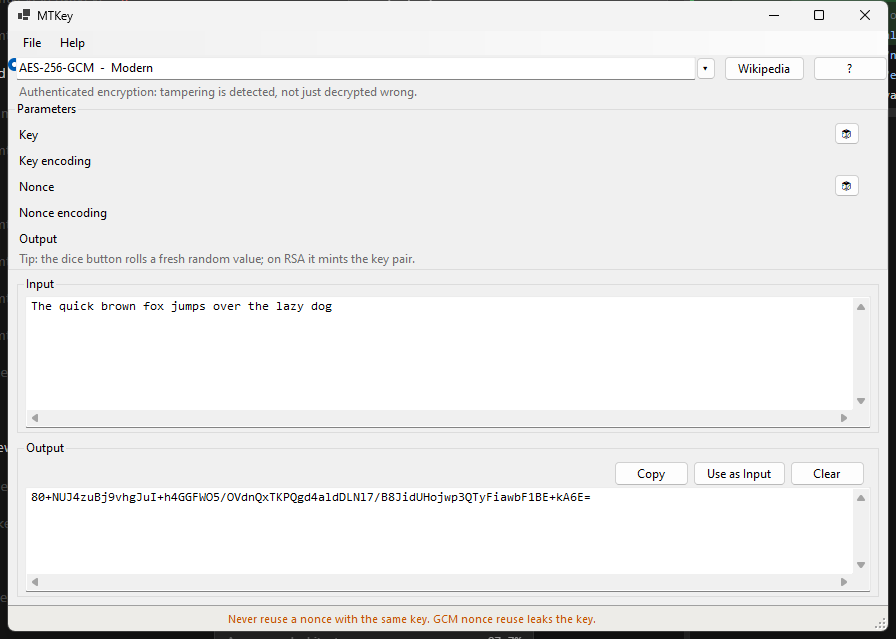
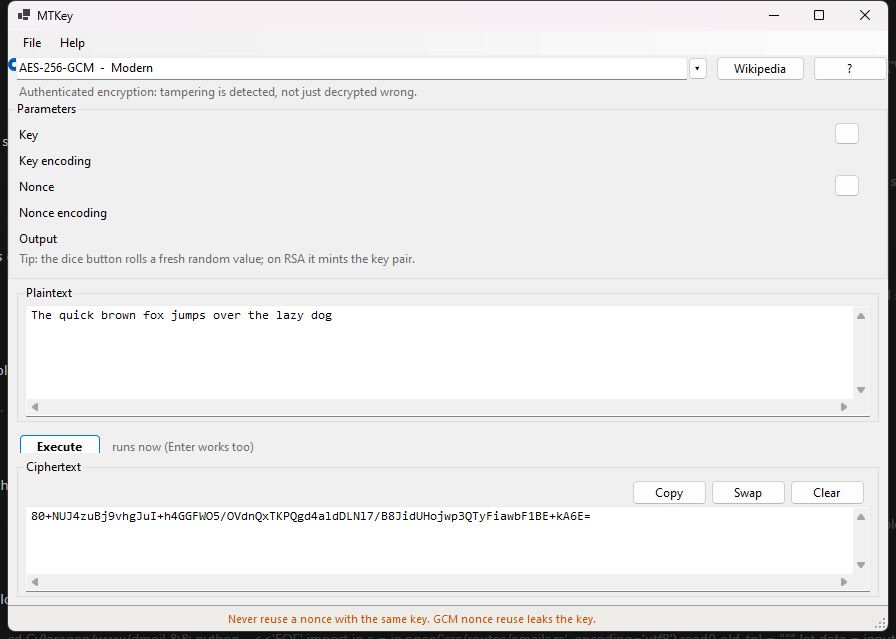
fix(ui): full-width parameter inputs, execute button, plaintext/ciphertext sections
Root cause of the vanishing inputs: the parameters group box had
AutoSize on, which pinned a docked control to its children's preferred
width and starved every field down to the 60px floor. The group is now
sized explicitly (full width, height from the rows) and multiline PEM
boxes are real multiline controls with scrollbars.

The two text sections are named Plaintext and Ciphertext (Hash for
one-way methods) and Swap exchanges both contents and captions, so a
swap lines the boxes up for the reverse direction. A bold Execute
button sits between the areas as the manual trigger and doubles as the
form's default button. Action buttons carry wider padding and a 23px
minimum so labels never truncate.

The layout guard now fails any method whose field input renders under
100px wide, which is the exact regression that shipped in 1.0.5.

diff --git a/src/Mtkey/MainForm.cs b/src/Mtkey/MainForm.cs
@@ -29,14 +29,15 @@ internal sealed class MainForm : Form
     };
 
     private readonly GroupBox _paramsGroup = NewGroup("Parameters");
-    private readonly GroupBox _inputGroup = NewGroup("Input");
-    private readonly GroupBox _outputGroup = NewGroup("Output");
+    private readonly GroupBox _inputGroup = NewGroup("Plaintext");
+    private readonly GroupBox _outputGroup = NewGroup("Ciphertext");
 
     private readonly TextBox _input = NewMonoBox();
     private readonly TextBox _output = NewMonoBox(readOnly: true);
     private readonly Button _copyButton = NewButton("Copy");
-    private readonly Button _useButton = NewButton("Use as Input");
+    private readonly Button _useButton = NewButton("Swap");
     private readonly Button _clearButton = NewButton("Clear");
+    private readonly Button _executeButton = NewPrimaryButton("Execute");
 
     private MenuStrip _menu = null!;
     private Panel _toolBar = null!;
@@ -96,8 +97,10 @@ internal sealed class MainForm : Form
         _encodeRadio.CheckedChanged += (_, _) => DirectionChanged();
         _decodeRadio.CheckedChanged += (_, _) => DirectionChanged();
         _copyButton.Click += (_, _) => CopyOutput();
-        _useButton.Click += (_, _) => { _input.Text = _output.Text; Schedule(); };
+        _useButton.Click += (_, _) => SwapSides();
         _clearButton.Click += (_, _) => { _input.Clear(); _output.Clear(); Schedule(); };
+        _executeButton.Click += (_, _) => { ValidateLive(); ProcessNow(); };
+        AcceptButton = _executeButton;
 
         _debounce.Tick += (_, _) => { _debounce.Stop(); ValidateLive(); ProcessNow(); };
 
@@ -127,7 +130,7 @@ internal sealed class MainForm : Form
         help.DropDownItems.Add(new ToolStripSeparator());
         help.DropDownItems.Add(new ToolStripMenuItem("&About MTKey...", null,
             (_, _) => MessageBox.Show(this,
-                "MTKey 1.0.5\nA cipher workbench: encode, decode, hash, sign, and learn.\n" +
+                "MTKey 1.0.6\nA cipher workbench: encode, decode, hash, sign, and learn.\n" +
                 $"{Registry.All.Count} methods. MIT licensed.\nhttps://github.com/eru123/mtkey",
                 "About MTKey", MessageBoxButtons.OK, MessageBoxIcon.Information)));
         menu.Items.Add(file);
@@ -223,7 +226,10 @@ internal sealed class MainForm : Form
     private void BuildParamsGroup()
     {
         _paramsGroup.Dock = DockStyle.Top;
-        _paramsGroup.AutoSize = true;
+        // AutoSize on a docked group box collapses its width to the
+        // children's preferred size and starves the inputs; the height is
+        // set explicitly in RebuildParams instead.
+        _paramsGroup.AutoSize = false;
         _paramsGroup.Padding = new Padding(8, 4, 8, 4);
         _paramsGroup.Margin = new Padding(6, 2, 6, 2);
         Controls.Add(_paramsGroup);
@@ -235,11 +241,12 @@ internal sealed class MainForm : Form
         {
             Dock = DockStyle.Fill,
             ColumnCount = 1,
-            RowCount = 2,
+            RowCount = 3,
             Padding = new Padding(6, 2, 6, 4),
             Margin = Padding.Empty,
         };
         grid.RowStyles.Add(new RowStyle(SizeType.Percent, 50));
+        grid.RowStyles.Add(new RowStyle(SizeType.Absolute, 30));
         grid.RowStyles.Add(new RowStyle(SizeType.Percent, 50));
 
         _inputGroup.Dock = DockStyle.Fill;
@@ -250,6 +257,28 @@ internal sealed class MainForm : Form
         _input.WordWrap = false;
         _input.AcceptsTab = true;
         _inputGroup.Controls.Add(_input);
+
+        // the primary action sits between the two areas: one deliberate
+        // click (or Enter) runs the method right now, live typing still works
+        var execBar = new Panel { Dock = DockStyle.Fill, Padding = new Padding(2, 5, 2, 2) };
+        _executeButton.Location = new Point(2, 5);
+        var execHint = new Label
+        {
+            Text = "runs now (Enter works too)",
+            AutoSize = true,
+            ForeColor = SystemColors.GrayText,
+            Location = new Point(0, 0),
+        };
+        _tips.SetToolTip(_executeButton, "Run the operation immediately");
+        void PlaceExec()
+        {
+            _executeButton.Location = new Point(2, 5);
+            execHint.Location = new Point(_executeButton.Right + 8,
+                5 + (_executeButton.Height - execHint.PreferredHeight) / 2);
+        }
+        execBar.Resize += (_, _) => PlaceExec();
+        execBar.Controls.Add(_executeButton);
+        execBar.Controls.Add(execHint);
 
         // the action buttons live on their own line under the group caption,
         // right aligned with a small inset so nothing touches the border
@@ -278,7 +307,8 @@ internal sealed class MainForm : Form
         _output.BringToFront();
 
         grid.Controls.Add(_inputGroup, 0, 0);
-        grid.Controls.Add(_outputGroup, 0, 1);
+        grid.Controls.Add(execBar, 0, 1);
+        grid.Controls.Add(_outputGroup, 0, 2);
         _ioGrid = grid;
         Controls.Add(grid);
     }
@@ -326,7 +356,7 @@ internal sealed class MainForm : Form
             rows.Add(new Label
             {
                 Dock = DockStyle.Top,
-                Height = 16,
+                Height = 15,
                 Text = "Tip: the dice button rolls a fresh random value; on RSA it mints the key pair.",
                 ForeColor = SystemColors.GrayText,
             });
@@ -336,13 +366,16 @@ internal sealed class MainForm : Form
             _paramsGroup.Controls.Add(row);
 
         _paramsGroup.Visible = _method.Fields.Count > 0;
+        // rows + caption strip; the dock supplies the full width
+        _paramsGroup.Height = rows.Sum(r => r.Height) + 34;
         _paramsGroup.ResumeLayout(true);
+        _paramsGroup.PerformLayout();
     }
 
     private Control BuildFieldRow(FieldSpec spec)
     {
         var multiline = spec.Kind == FieldKind.Multiline;
-        var row = new Panel { Dock = DockStyle.Top, Height = multiline ? 78 : 26 };
+        var row = new Panel { Dock = DockStyle.Top, Height = multiline ? 64 : 26 };
 
         var label = new Label
         {
@@ -370,11 +403,16 @@ internal sealed class MainForm : Form
         var reserve = (spec.Generator != null ? DiceWidth : 0) + GlyphWidth;
         input.Bounds = new Rectangle(left, multiline ? 0 : 1,
             Math.Max(60, row.ClientSize.Width - left - reserve),
-            multiline ? 76 : 23);
+            multiline ? 62 : 23);
         switch (input)
         {
             case TextBox tb:
                 tb.PlaceholderText = spec.Placeholder;
+                if (multiline)
+                {
+                    tb.Multiline = true;
+                    tb.ScrollBars = ScrollBars.Vertical;
+                }
                 if (spec.Secret && !multiline) tb.UseSystemPasswordChar = true;
                 tb.TextChanged += (_, _) => Schedule();
                 break;
@@ -484,6 +522,8 @@ internal sealed class MainForm : Form
         _tips.SetToolTip(_blurb, method.Blurb + "\n\nClick for the full explanation.");
         _tips.SetToolTip(_wikiButton, method.WikiUrl);
         _wikiButton.Text = method.Category == "Defuse PHP" ? "GitHub" : "Wikipedia";
+        _inputGroup.Text = "Plaintext";
+        _outputGroup.Text = method.TwoWay ? "Ciphertext" : "Hash";
 
         if (method.TwoWay)
         {
@@ -549,6 +589,16 @@ internal sealed class MainForm : Form
                 string.Join("\n", results.Where(c => !c.Pass).Select(c => $"FAIL {c.Name}: {c.Detail}")),
                 $"Self-test: {failed} failures", MessageBoxButtons.OK, MessageBoxIcon.Warning);
         ResetStatus();
+    }
+
+    /// <summary>Swaps the two text areas completely: their contents AND their
+    /// captions, so what was the ciphertext box becomes the plaintext box and
+    /// the next run decodes.</summary>
+    private void SwapSides()
+    {
+        (_input.Text, _output.Text) = (_output.Text, _input.Text);
+        (_inputGroup.Text, _outputGroup.Text) = (_outputGroup.Text, _inputGroup.Text);
+        Schedule();
     }
 
     private void CopyOutput()
@@ -705,6 +755,14 @@ internal sealed class MainForm : Form
                     defects.Add($"{_method.Id}: {groups[i].Text} and {groups[j].Text} group boxes intersect " +
                                 $"[{ScreenBounds(groups[i])}] vs [{ScreenBounds(groups[j])}]");
 
+        // inputs must be real, usable controls, not starved slivers; this is
+        // the guard for the autosize group box that collapsed every field
+        foreach (var (name, control) in _fieldControls)
+            if (control.Width < 100)
+                defects.Add($"{_method.Id}: field '{name}' input is only {control.Width}px wide");
+        if (_selector.Width < 200)
+            defects.Add($"{_method.Id}: selector is only {_selector.Width}px wide");
+
         // toolbar: nothing may overlap, nothing may bleed past the window
         var toolbarControls = _toolBar.Controls.Cast<Control>().Where(c => c.Visible).ToList();
         for (var i = 0; i < toolbarControls.Count; i++)
@@ -759,9 +817,19 @@ internal sealed class MainForm : Form
     {
         Text = text,
         AutoSize = true,
-        Padding = new Padding(6, 0, 6, 0),
+        // generous side padding and a fixed minimum height: labels never
+        // wrap, never truncate, buttons keep the classic 23px body
+        Padding = new Padding(10, 0, 10, 0),
+        MinimumSize = new Size(0, 23),
         Margin = new Padding(1),
     };
+
+    private static Button NewPrimaryButton(string text)
+    {
+        var button = NewButton(text);
+        button.Font = new Font(SystemFonts.MessageBoxFont, FontStyle.Bold);
+        return button;
+    }
 
     private static GroupBox NewGroup(string caption) => new()
     {
